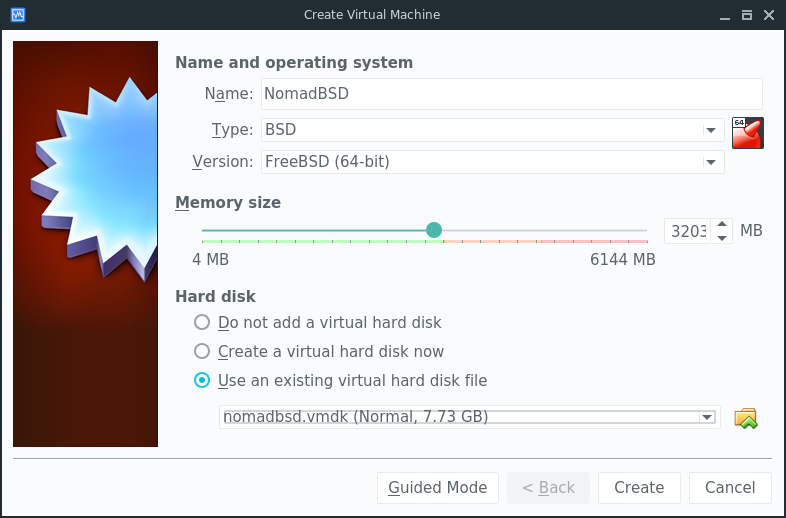
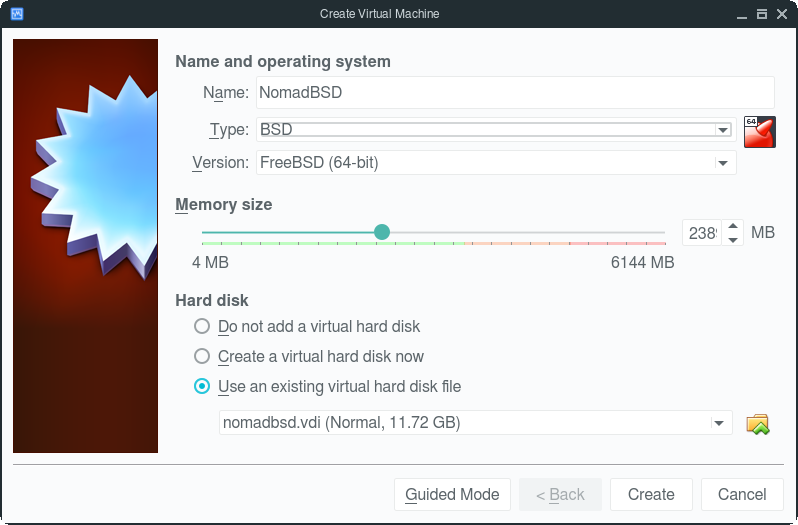
Change instructions for running in VirtualBox.

diff --git a/handbook.md b/handbook.md
@@ -403,21 +403,33 @@ single partition is currently not possible.
 <a name="vbox"></a>
 ### Running NomadBSD in Virtualbox<sup>™</sup>
 1. [Download and extract](http://nomadbsd.org/download.html) an image you intend to run.
-2. NomadBSD will use the remaining space on a USB flash drive for its `/home`
-partition, but since we intend to run it from an image file, we increase the
-(potential) size of the image as follows:
-`truncate -s +4G nomadbsd-x.y.z.img`. If you need more or less extra space, change the
-`-s` parameter accordingly.
-3. Create a vmdk file: `VBoxManage internalcommands createrawvmdk -filename ~/nomadbsd.vmdk -rawdisk /full/path/to/nomadbsd-x.y.z.img`
+2. Create a virtual harddisk (VDI) from the image:
+
+		VBoxManage convertfromraw nomadbsd-x.y.z.img \
+			nomadbsd-x.y.z.vdi --format VDI
+
+3. Change the size of the virtual harddisk, so that you have enough space to
+store files, and install packages. NomadBSD's base system requires approx. 4 GB,
+so resizing the VDI to 8 GB (8000 MB), which is the minimum recommended size,
+will give you about 4 GB for your files.
+
+		VBoxManage modifyhd nomadbsd-x.y.z.vdi --resize 8000
+
+	- - -
+	
+	**Note**: Increasing the size of the VDI after running the NomadBSD
+	setup will not have any effect on NomadBSD's filesystem capacity.
+	
+	- - -
+
 4. Start VirtualBox<sup>™</sup>, and create a new virtual machine. Select
 *Use an existing virtual hard disk file* in the *Hard disk* settings, and
-choose *nomadbsd.vmdk* which we created in 3.
+choose *nomadbsd-x.y.z.vdi* which we created in 2.
 ![](images/create-vbox-machine.png)
 
 5. Go to *Settings* → *Display* and set the video memory to 128MB or more.
 6. Go to *Settings* → *System* → *Processor* and set the number of
 processors to 2.
-
 
 <a name="linuxpkg"></a>
 ## Installing Linux<sup>®</sup> packages
